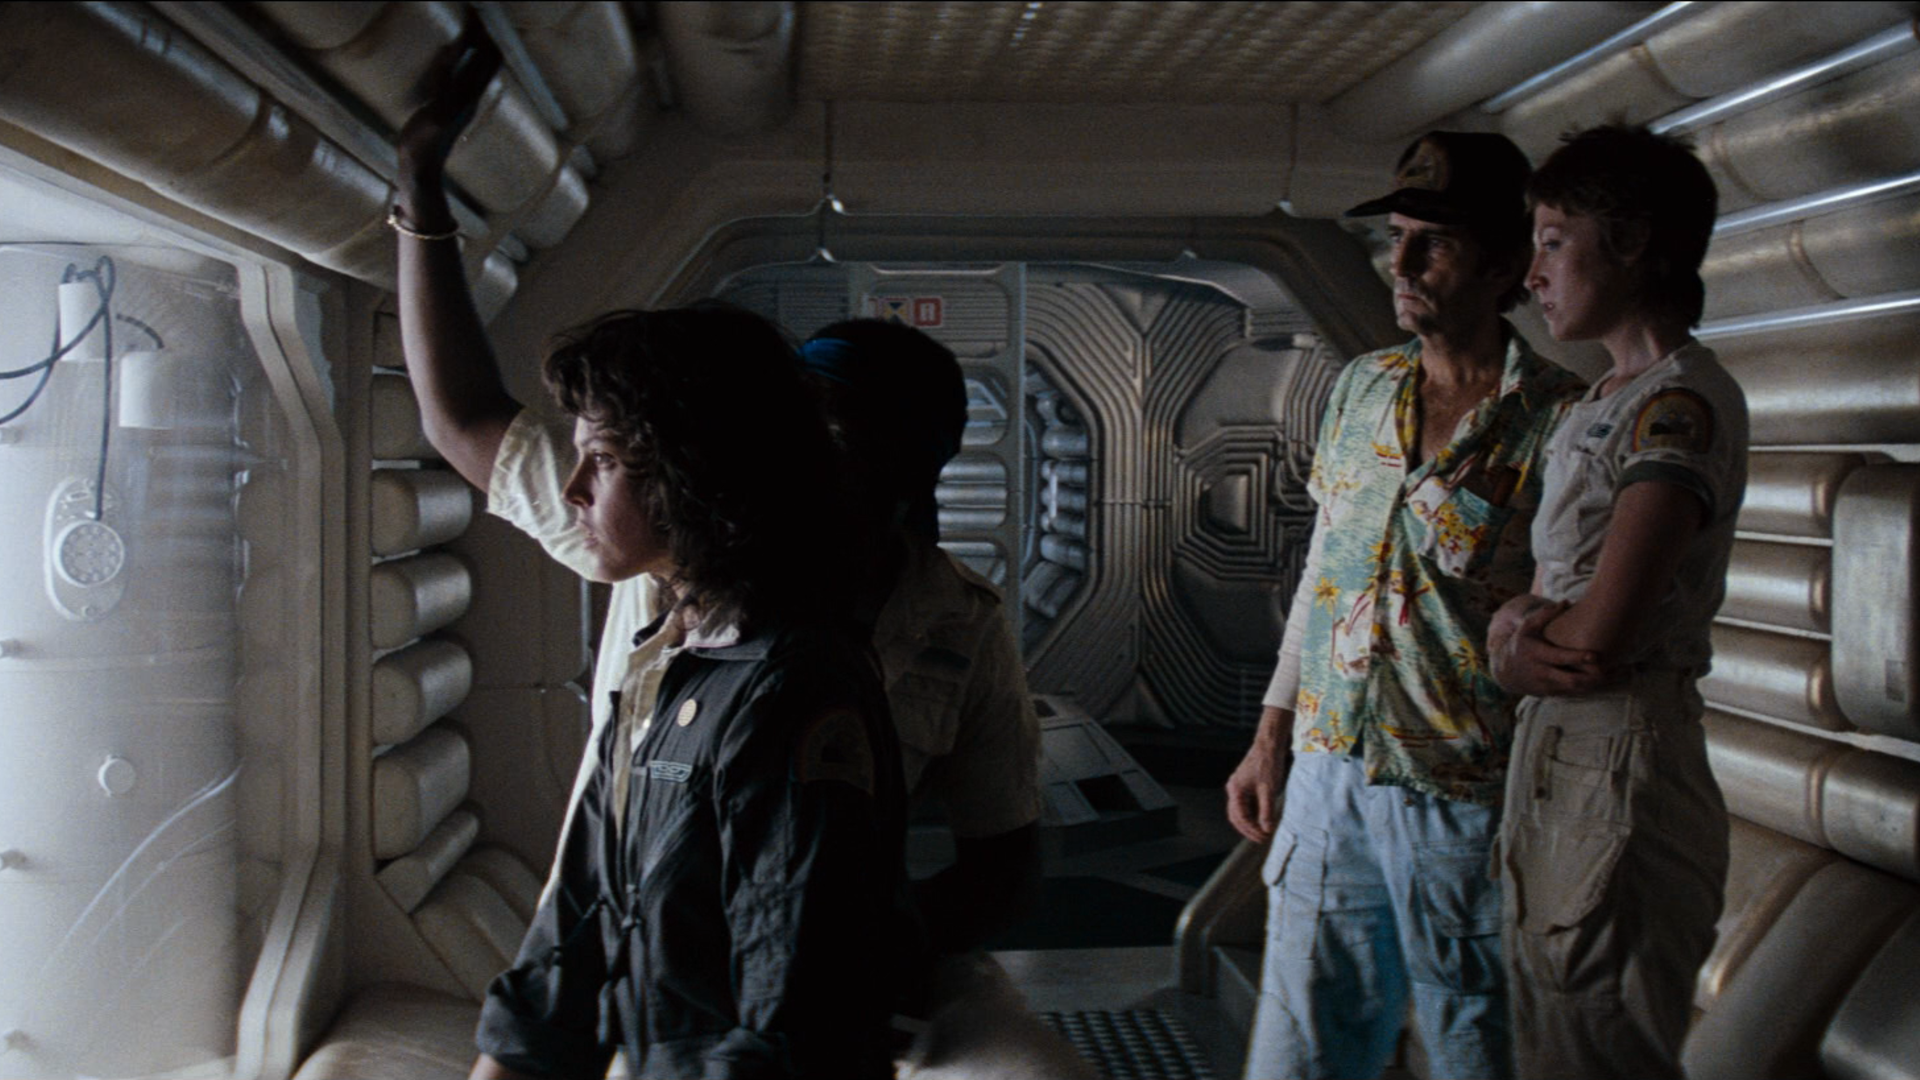
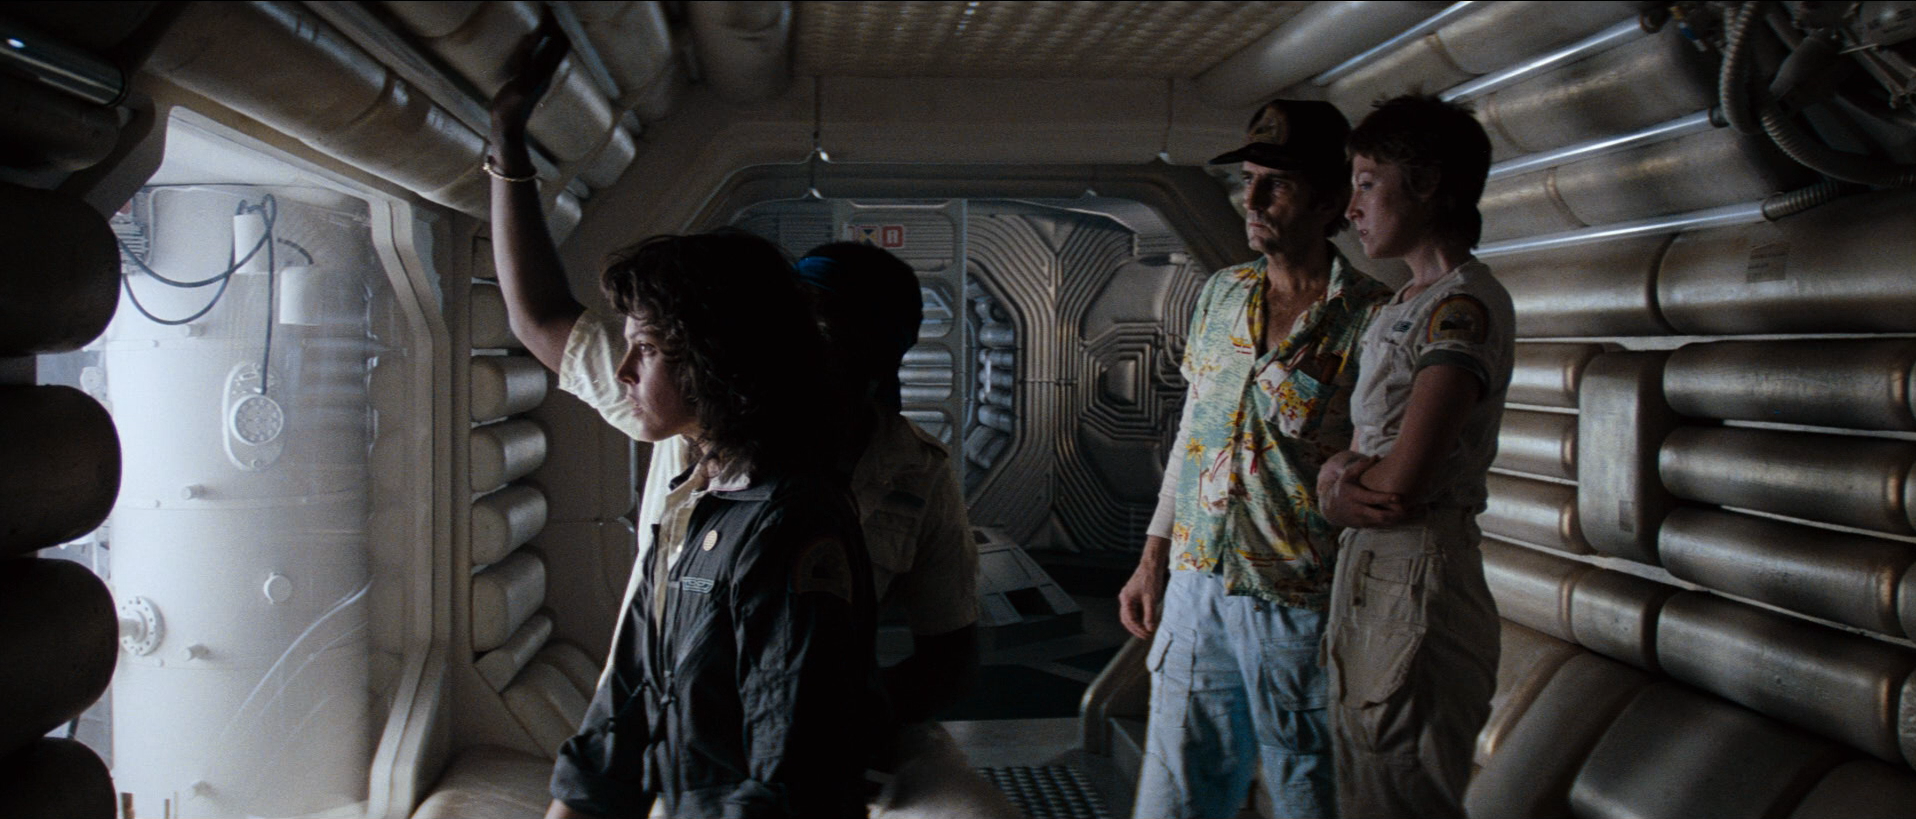
analyze complete

diff --git a/src/Analysis.js b/src/Analysis.js
@@ -1,7 +1,7 @@
 import React from 'react'
 import './Analysis.css';
 import AlienImage from './images/4-alien.png';
-import StalkerImage from './images/5-stalker.jpg';
+import AlienImage2 from './images/4-alien-analysis.png';
 
 class Analysis extends React.Component {
   constructor(props) {
@@ -42,6 +42,13 @@ class Analysis extends React.Component {
     this.setState({photoDisplayed:!this.state.photoDisplayed})
   }
 
+  allClick = () => {
+    this.setState({infoDisplayed:!this.state.infoDisplayed})
+    this.setState({overviewDisplayed:!this.state.overviewDisplayed})
+    this.setState({lightingDisplayed:!this.state.lightingDisplayed})
+    this.setState({photoDisplayed:!this.state.photoDisplayed})
+  }
+
 
   displayMovieInfo = () => {
     if (this.state.infoDisplayed) {
@@ -55,15 +62,15 @@ class Analysis extends React.Component {
     if (this.state.overviewDisplayed) {
       return <p></p>  
     } else {
-      return <div><i>After a space merchant vessel receives an unknown transmission as a distress call, one of the crew is attacked by a  <br />mysterious life form and they soon realize that its life cycle has merely begun.</i></div> 
+      return <div><strong>Alien (1979):</strong> <i>After a space merchant vessel receives an unknown transmission as a distress call, one of the crew is attacked by a  <br />mysterious life form and they soon realize that its life cycle has merely begun.</i></div> 
     }
   }
 
   displayLighting = () => {
     if (this.state.lightingDisplayed) {
-      return StalkerImage
+      return AlienImage2
     } else {
-      return StalkerImage
+      return AlienImage2
     }
   }
 
@@ -82,17 +89,16 @@ class Analysis extends React.Component {
         <div className="analysis__container">
           <img
             className="analysis__image"
-            src={ this.state.lightingDisplayed ? StalkerImage : AlienImage }
+            src={ this.state.lightingDisplayed ? AlienImage2 : AlienImage }
             alt=""
           />
           <div className="movie__info">{ this.state.infoDisplayed ? this.displayMovieInfo : null }</div>
           <div className="photo__info">{ this.state.photoDisplayed ? this.displayPhotoInfo : null }</div>
         </div>
-        
         <div className="analysis__buttons">
           <button onClick={this.infoClick}>movie info</button>
           <button onClick={this.overviewClick}>overview</button>
-
+          <button onClick={this.allClick}>show all</button>
           <button onClick={this.lightingClick}>analyze</button>
           <button onClick={this.photoClick}>photo info</button>
         </div>

diff --git a/src/Analysis.css b/src/Analysis.css
@@ -43,11 +43,13 @@
   display: flex;
   justify-content: center;
   font-size: 18px;
+  text-align: center;
 }
 
 .analysis__buttons {
   display: flex;
   justify-content: space-around;
+  margin-top: 3ex;
   margin-left: 25%;
   margin-right: 25%;
 }
